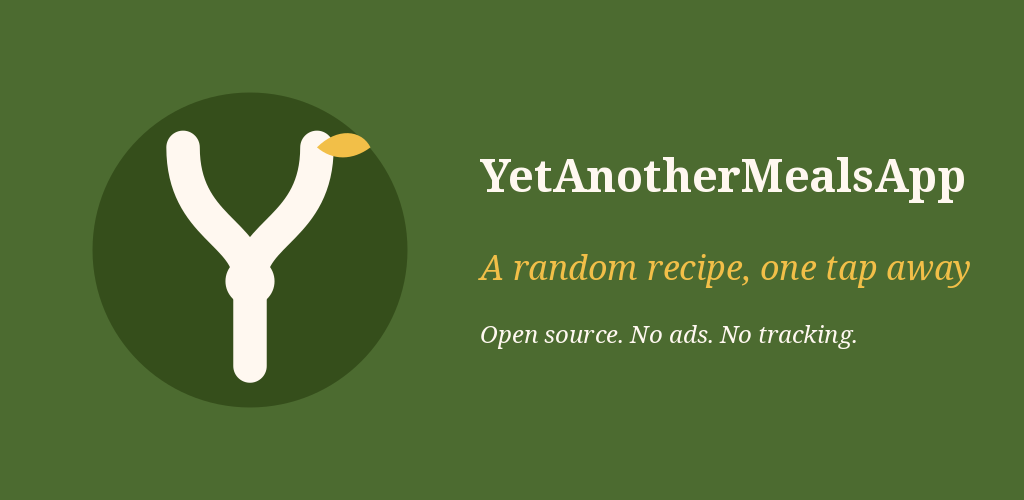
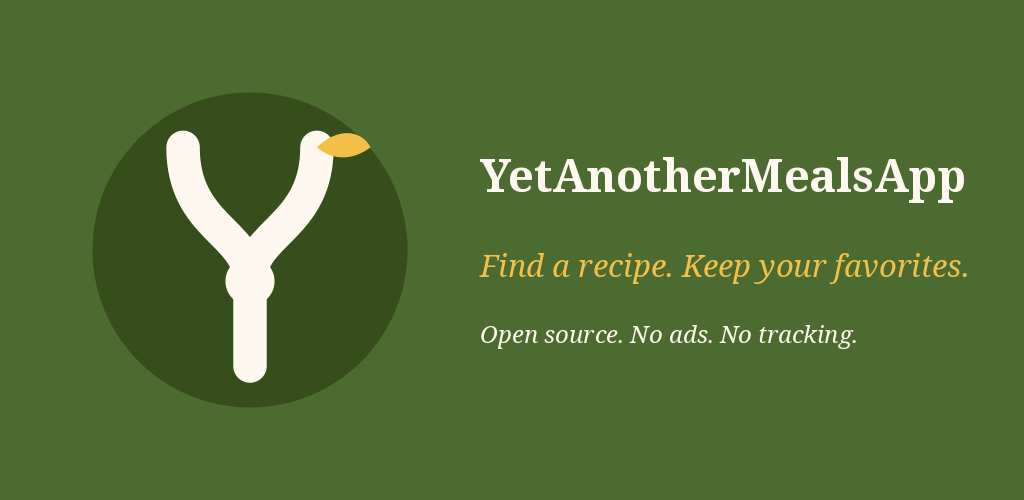
Describe favorites in the privacy policy and the store listing
PRIVACY.md: favorites are stored only on the device and kept out of
Android's backup. New short and full descriptions and the feature
graphic's tagline "Find a recipe. Keep your favorites."

Changed region(s): [[0.4688, 0.51, 0.9688, 0.57]]

diff --git a/art/play-store/render_store_graphics.py b/art/play-store/render_store_graphics.py
@@ -24,8 +24,8 @@ icons = importlib.util.module_from_spec(spec)
 spec.loader.exec_module(icons)
 
 TITLE = "YetAnotherMealsApp"
-# Describes the app's only feature so far. Revisit it (and the listing texts) when features are added.
-TAGLINE = "A random recipe, one tap away"
+# Describes the app's features (random recipes, favorites). Revisit it (and the listing texts) when features are added.
+TAGLINE = "Find a recipe. Keep your favorites."
 FOOTER = "Open source. No ads. No tracking."
 
 WIDTH, HEIGHT = 1024, 500

diff --git a/CLAUDE.md b/CLAUDE.md
@@ -10,7 +10,7 @@ Open source under the Apache License 2.0 (`LICENSE`), copyright "The YetAnotherM
 
 The README's badges are shields.io images: Kotlin and Compose Multiplatform read their versions from `gradle/libs.versions.toml` on GitHub, the others are static. Update the static ones when their facts change (the API badge with `android-minSdk`, platforms, license, "tracking: none" with the privacy policy).
 
-`PRIVACY.md` is the app's privacy policy and describes only what the app does today: no data collection, requests to TheMealDB, and Coil's on-device image cache. When a change affects data handling (on-device storage such as favorites or settings, opening external links, new network services, analytics or crash reporting), update the policy and its "Last updated" date in the same change. The app shows the file itself (About → Privacy), so keep it to headings and plain paragraphs.
+`PRIVACY.md` is the app's privacy policy and describes only what the app does today: no data collection, requests to TheMealDB, Coil's on-device image cache, and the favorites database on the device (excluded from Android's backup and from iOS backups). When a change affects data handling (on-device storage such as favorites or settings, opening external links, new network services, analytics or crash reporting), update the policy and its "Last updated" date in the same change. The app shows the file itself (About → Privacy), so keep it to headings and plain paragraphs.
 
 ## Commands
 
@@ -66,7 +66,7 @@ Shared Gradle setup lives in convention plugins in the included build `build-log
 - `:composeApp` and `:feature:recipe:ui` use the newer AGP `com.android.kotlin.multiplatform.library` plugin: Android config lives inside `kotlin { android { ... } }`, not a top-level `android {}` block. In UI modules that block only sets `namespace`; the rest comes from `meals.kmp.feature.ui`.
 - `feature/recipe/` is a feature folder with three modules, referenced through type-safe project accessors (`projects.feature.recipe.domain`):
   - `:feature:recipe:domain`: models and repository interfaces. KMP (jvm + iOS), with no Android or Compose dependencies.
-  - `:feature:recipe:data`: repository implementations, depends on `domain`. Its only public declaration is the Koin module `recipeDataModule`; everything else is `internal`. Same constraints as `domain`, but it applies `meals.kmp.room`, so it also has an `android` target, which Android uses instead of `jvm`. Gets its `HttpClient` from `:core:network` and decodes responses with kotlinx.serialization. Meals are decoded as raw `JsonObject`s and mapped in `MealMapper.kt` because of the numbered `strIngredientN`/`strMeasureN` fields. `RecipeRepository` loads a random recipe (`random.php`) or one by id (`lookup.php?i=`); when there are no meals TheMealDB answers HTTP 200 with `"meals": null` or a message such as `"Invalid ID"`, which `MealsResponse.meals` turns into an empty list and `getRecipe` into `DataError.NotFound`. It also holds the app's Room database, `RecipeDatabase` (`database` package, file `recipes.db`): the table `favorite_recipe` stores each favorite completely (tags and ingredients as JSON via `RecipeColumnTypeConverters`), so `FavoritesRepository` (`observeFavorites`, `observeIsFavorite`, `addFavorite`, `removeFavorite`) works offline, and `getRecipe(id)` reads a saved recipe from the database before asking TheMealDB. Where the file lives is platform-specific (`platformDatabaseModule`, `expect`/`actual`: Android's database directory, the OS's app data directory on desktop (`~/.local/share/YetAnotherMealsApp`, `%APPDATA%`, `~/Library/Application Support`), the Documents directory on iOS); every platform uses the bundled SQLite driver and `Dispatchers.IO`. Tests use an in-memory database (`inMemoryRecipeDatabase()` in `commonTest`) and must never build the real one. A schema change needs a new database `version`, a migration and the exported schema in `schemas/`. The database is excluded from Android's backup and device transfer (favorites stay on the device, as `PRIVACY.md` says): `androidApp/src/main/res/xml/data_extraction_rules.xml` (Android 12+) and `backup_rules.xml` (Android 11 and older) exclude `recipes.db` and SQLite's `-wal`, `-shm` and `.lck` files; a new or renamed database file needs the same entries in both.
+  - `:feature:recipe:data`: repository implementations, depends on `domain`. Its only public declaration is the Koin module `recipeDataModule`; everything else is `internal`. Same constraints as `domain`, but it applies `meals.kmp.room`, so it also has an `android` target, which Android uses instead of `jvm`. Gets its `HttpClient` from `:core:network` and decodes responses with kotlinx.serialization. Meals are decoded as raw `JsonObject`s and mapped in `MealMapper.kt` because of the numbered `strIngredientN`/`strMeasureN` fields. `RecipeRepository` loads a random recipe (`random.php`) or one by id (`lookup.php?i=`); when there are no meals TheMealDB answers HTTP 200 with `"meals": null` or a message such as `"Invalid ID"`, which `MealsResponse.meals` turns into an empty list and `getRecipe` into `DataError.NotFound`. It also holds the app's Room database, `RecipeDatabase` (`database` package, file `recipes.db`): the table `favorite_recipe` stores each favorite completely (tags and ingredients as JSON via `RecipeColumnTypeConverters`), so `FavoritesRepository` (`observeFavorites`, `observeIsFavorite`, `addFavorite`, `removeFavorite`) works offline, and `getRecipe(id)` reads a saved recipe from the database before asking TheMealDB. Where the file lives is platform-specific (`platformDatabaseModule`, `expect`/`actual`: Android's database directory, the OS's app data directory on desktop (`~/.local/share/YetAnotherMealsApp`, `%APPDATA%`, `~/Library/Application Support`), `Application Support/Database` on iOS, marked with `NSURLIsExcludedFromBackupKey` so iCloud and computer backups skip it); every platform uses the bundled SQLite driver and `Dispatchers.IO`. Tests use an in-memory database (`inMemoryRecipeDatabase()` in `commonTest`) and must never build the real one. A schema change needs a new database `version`, a migration and the exported schema in `schemas/`. The database is excluded from Android's backup and device transfer (favorites stay on the device, as `PRIVACY.md` says): `androidApp/src/main/res/xml/data_extraction_rules.xml` (Android 12+) and `backup_rules.xml` (Android 11 and older) exclude `recipes.db` and SQLite's `-wal`, `-shm` and `.lck` files; a new or renamed database file needs the same entries in both.
   - `:feature:recipe:ui`: Compose Multiplatform screens (Android, jvm, iOS), depends on `domain` (`implementation`: consumers never need domain types from it). Its only public declarations are the navigation keys `RandomRecipeNavKey` (the random tab's root) and `RecipeNavKey(recipeId)` (a recipe opened from a list, pushed onto the current tab's stack), the entry registration `EntryProviderScope<NavKey>.recipeEntries(onBack)` (all in `RecipeNavigation.kt`, called from `:composeApp`'s navigation) and the Koin module `recipeUiModule`; everything else is `internal`. `recipeEntries()` maps `RandomRecipeNavKey` to `RandomRecipeRoute` (package `randomrecipe`), which gets `RandomRecipeViewModel` via `koinViewModel()`, collects its `RandomRecipeUiState` `StateFlow`, and passes state and callbacks to the stateless `RandomRecipeScreen`; and `RecipeNavKey` to `RecipeRoute` (package `recipedetail`), whose `RecipeViewModel` gets the id through `koinViewModel { parametersOf(recipeId) }` and loads it once with `getRecipe` (so it stays on screen when un-favorited there). Both screens show the shared `RecipeDetails` (package `component`, with `FavoriteButton`, `ErrorMessage`, `LoadingIndicator`); the random one adds Previous/Next, the other a `BackTopAppBar` titled "Recipe" (not the recipe's name, which would be read twice). Both ViewModels follow `FavoritesRepository.observeIsFavorite` for the shown recipe, so the heart reflects changes made elsewhere, and a failed write leaves it unchanged. Follow this NavKey + entry registration (public) / Route (stateful) / Screen (stateless) layering and keep visibility as tight as possible in new features. Images load with Coil 3 (`coil-network-ktor3`). Consumed by `:composeApp`; it does not build an iOS framework itself.
   - `domain` and `data` are KMP rather than `kotlin("jvm")` so iOS can consume them. Their Android consumers resolve the `jvm()` variant, except for modules with an `android` target (`meals.kmp.room`).
 - `feature/favorites/` has only a `ui` module, `:feature:favorites:ui`: the favorites tab. It depends on `:feature:recipe:domain` (`FavoritesRepository`, `Recipe`) and never on `recipe:ui` or `recipe:data`; this is the only dependency between features, and it points to the central recipe feature. Its public declarations are `FavoritesNavKey` (the tab root), `favoritesEntry(onOpenRecipe)` (`FavoritesNavKey.kt`) and `favoritesUiModule`. `FavoritesScreen` (own `Scaffold` with a "Favorites" `TopAppBar` and a `SnackbarHost`) shows `FavoritesViewModel`'s state: loading, empty, error (the database couldn't be read) or `RecipeTeaser` cards (thumbnail, name, "Category · Area"; the card is one element for screen readers, its remove button another, "Remove ‹name› from favorites"). Removing deletes right away and shows "Removed ‹name›" with "Undo", which saves the recipe again as the newest favorite; the message reports back through `onRemovalMessageClosed(undo)`. Tapping a card calls `onOpenRecipe(id)`, which `AppNavigation` maps to `navigator.navigate(RecipeNavKey(id))`, so the recipe opens on the favorites tab's stack.
@@ -99,7 +99,7 @@ Android 8+ uses the adaptive vector icon (`drawable/ic_launcher_background.xml`,
 
 ## Store listing
 
-The Google Play listing lives in `fastlane/metadata/android/en-US/` (Fastlane's layout, which F-Droid also reads): `title.txt` (≤ 30 characters), `short_description.txt` (≤ 80), `full_description.txt` (≤ 4000) and `images/` with `icon.png` (512×512), `featureGraphic.png` (1024×500) `phoneScreenshots/1.png`… (1080×1920, Play's maximum aspect ratio is 2:1), `sevenInchScreenshots/1.png` (1080×1920) and `tenInchScreenshots/1.png` (1440×2560). All PNGs are opaque RGB. Nothing uploads it yet; it's entered in Play Console by hand. Keep the descriptions true to what the app does, and update them (and the screenshots) when features or screens change. The listing is written around the app's only feature, random recipes: when adding a feature (search, favorites, categories, ...), revisit the feature graphic's tagline ("A random recipe, one tap away", `TAGLINE` in `render_store_graphics.py`, then re-render), `short_description.txt` ("Random recipe ideas from around the world...") and `full_description.txt`, and tell the user about it.
+The Google Play listing lives in `fastlane/metadata/android/en-US/` (Fastlane's layout, which F-Droid also reads): `title.txt` (≤ 30 characters), `short_description.txt` (≤ 80), `full_description.txt` (≤ 4000) and `images/` with `icon.png` (512×512), `featureGraphic.png` (1024×500) `phoneScreenshots/1.png`… (1080×1920, Play's maximum aspect ratio is 2:1), `sevenInchScreenshots/1.png` (1080×1920) and `tenInchScreenshots/1.png` (1440×2560). All PNGs are opaque RGB. Nothing uploads it yet; it's entered in Play Console by hand. Keep the descriptions true to what the app does, and update them (and the screenshots) when features or screens change. The listing describes the app's features, random recipes and favorites: when adding a feature (search, categories, ...), revisit the feature graphic's tagline ("Find a recipe. Keep your favorites.", `TAGLINE` in `render_store_graphics.py`, then re-render), `short_description.txt` ("Random recipe ideas from around the world. Save favorites...") and `full_description.txt`, and tell the user about it.
 
 - `art/play-store/render_store_graphics.py` renders the icon (the launcher icon's motif from `render_icons.py`) and the feature graphic. Its text uses Noto Serif from `art/fonts/` (OFL, `art/fonts/OFL.txt`; only used for artwork, not shipped), the serif the app's headlines use on Android.
 - Screenshots never show TheMealDB's photos: they come from contributors, none is marked Creative Commons, and many seem to come from the recipes' source sites, so their use in a store listing is unclear. They show the debug build's **screenshot mode** instead: two recipes written for the screenshots (`androidApp/src/debug/.../ScreenshotRecipes.kt`) with illustrations drawn by `art/play-store/render_mock_recipes.py` (`art/play-store/mock-recipes/`). `debugModules()` (`src/debug/.../DebugModules.kt`; the `src/release` version returns nothing) replaces the `RecipeRepository` and the `FavoritesRepository` (in memory, pre-filled with the same two recipes, so the favorites tab can be photographed and the real database isn't touched) when the app's files contain a `screenshot-mode` directory with the images. `initKoin()` runs the platform `config` after loading the app's modules, so that override wins. Set it up with `adb shell run-as io.github.fmweigl.yetanothermealsapp mkdir -p files/screenshot-mode` and `adb exec-in run-as io.github.fmweigl.yetanothermealsapp sh -c 'cat > files/screenshot-mode/<name>.png' < art/play-store/mock-recipes/<name>.png`, and remove the directory afterwards.

diff --git a/PRIVACY.md b/PRIVACY.md
@@ -1,6 +1,6 @@
 # Privacy Policy for YetAnotherMealsApp
 
-Last updated: October 1, 2026
+Last updated: October 2, 2026
 
 YetAnotherMealsApp is a free recipe app developed by Florian Weigl as a private individual.
 This policy explains what happens with your data when you use the app.
@@ -15,14 +15,21 @@ SDKs and no tracking. I do not collect, store or share any personal data.
 To show recipes, the app loads recipe data and images from TheMealDB
 (https://www.themealdb.com). As with any internet request, TheMealDB's servers
 receive technical information such as your IP address and request details.
-The requests contain no personal information beyond this. TheMealDB's own privacy
-policy applies to this processing: https://www.themealdb.com/privacy_policy.php
+The requests contain no personal information beyond this. Recipes you saved as
+favorites open from your device, but their images are still loaded from TheMealDB.
+TheMealDB's own privacy policy applies to this processing:
+https://www.themealdb.com/privacy_policy.php
 
 ## Data stored on your device
 
 To load faster, the app keeps a cache of the recipe images it has downloaded on your
 device. The cache contains no personal data and is never transmitted to me or anyone
 else. It is deleted when you clear the app's data or uninstall the app.
+
+Recipes you save as favorites are stored in a database on your device, so you can open
+them without an internet connection. They are never transmitted to me or anyone else,
+and on Android they are excluded from the system's backup and device-to-device transfer.
+They are deleted when you remove them in the app, clear the app's data or uninstall the app.
 
 ## Google Play
 

diff --git a/docs/plans/favorites.md b/docs/plans/favorites.md
@@ -1,6 +1,6 @@
 # Plan: "Favorites" feature
 
-Branch: `feature/favorites`. Status: steps 1–8 of the commit order done.
+Branch: `feature/favorites`. Status: steps 1–9 of the commit order done; final checks before merging open (see below).
 
 Goal: the user marks recipes as favorites with a button; favorites are saved in a Room database; a new bottom
 navigation tab "Favorites" lists teasers of them; a teaser can be removed (deleted from the database); clicking a
